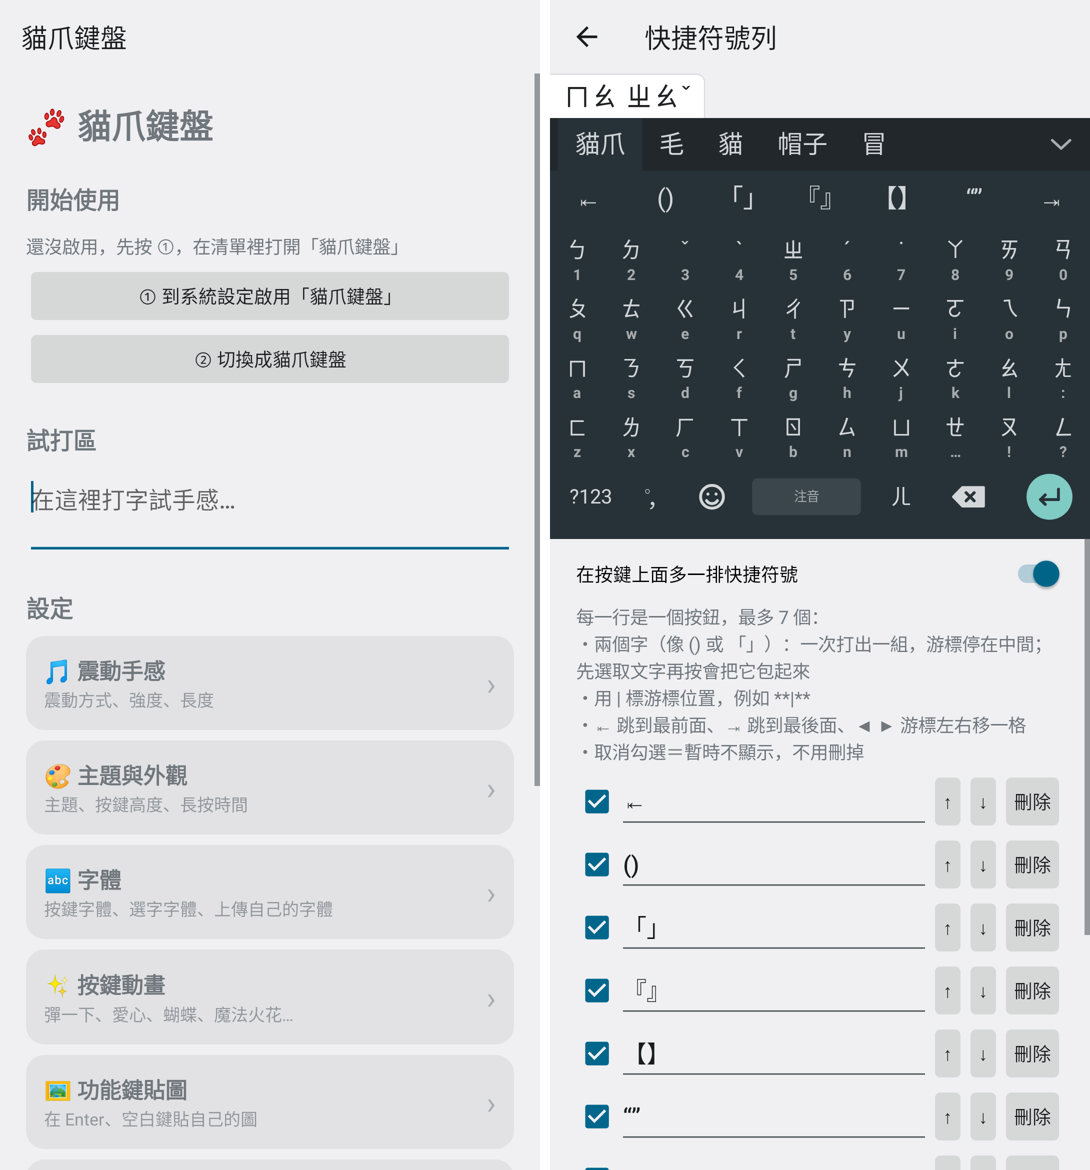
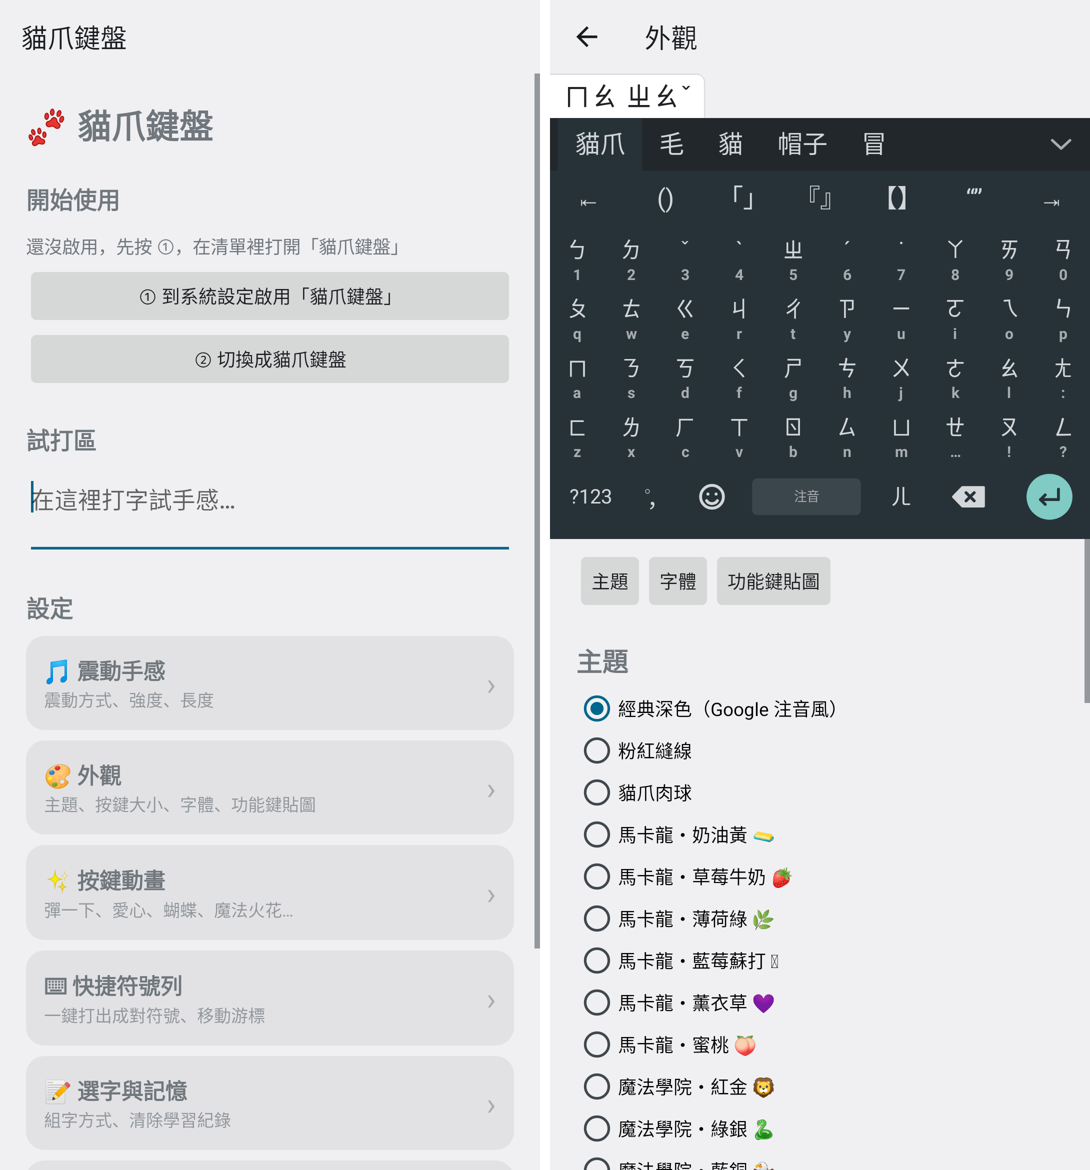
設定頁：主題、字體、功能鍵貼圖合併成「外觀」
- 首頁分類精簡成 7 個
- 「外觀」最上面有跳轉按鈕（主題／字體／功能鍵貼圖）
- 自訂配色改從主題清單下的「調整自訂配色 ›」進入，返回會回到外觀

Claude-Session: https://claude.ai/code/session_01YEi7AGz9LaiD389faVzAY6

diff --git a/app/src/main/java/io/github/yolanda1027/catpaw/SettingsActivity.kt b/app/src/main/java/io/github/yolanda1027/catpaw/SettingsActivity.kt
@@ -195,21 +195,29 @@ class SettingsActivity : Activity() {
 
     // ---------- 分頁 ----------
 
-    /** 設定的分類：代號、標題、說明、要不要在上面放預覽鍵盤 */
-    private class PageInfo(val id: String, val title: String, val desc: String, val preview: Boolean)
+    /**
+     * 設定的分類：代號、標題、說明、要不要在上面放預覽鍵盤、
+     * 按返回要回到哪一頁、要不要列在首頁
+     */
+    private class PageInfo(
+        val id: String, val title: String, val desc: String, val preview: Boolean,
+        val parent: String = "home", val listed: Boolean = true,
+    )
 
     private val pages = listOf(
         PageInfo("haptic", "🎵 震動手感", "震動方式、強度、長度", false),
-        PageInfo("theme", "🎨 主題與外觀", "主題、按鍵高度、長按時間", true),
-        PageInfo("font", "🔤 字體", "按鍵字體、選字字體、上傳自己的字體", true),
+        PageInfo("look", "🎨 外觀", "主題、按鍵大小、字體、功能鍵貼圖", true),
         PageInfo("effect", "✨ 按鍵動畫", "彈一下、愛心、蝴蝶、魔法火花…", true),
-        PageInfo("sticker", "🖼 功能鍵貼圖", "在 Enter、空白鍵貼自己的圖", true),
-        PageInfo("color", "🖌 自訂配色", "自己調鍵盤的 5 個顏色", true),
         PageInfo("quick", "⌨ 快捷符號列", "一鍵打出成對符號、移動游標", true),
         PageInfo("candidate", "📝 選字與記憶", "組字方式、清除學習紀錄", false),
         PageInfo("clip", "📋 剪貼簿", "剪貼簿紀錄開關、清除", false),
         PageInfo("tips", "💡 小提示", "一些好用的小技巧", false),
+        // 從「外觀」的主題清單跳進來，不列在首頁
+        PageInfo("color", "🖌 自訂配色", "自己調鍵盤的 5 個顏色", true, parent = "look", listed = false),
     )
+
+    private fun parentOf(id: String) = pages.firstOrNull { it.id == id }?.parent ?: "home"
+    private var scroll: ScrollView? = null
 
     private var page = "home"
 
@@ -229,12 +237,12 @@ class SettingsActivity : Activity() {
 
     @Deprecated("Activity 的返回鍵處理")
     override fun onBackPressed() {
-        if (page != "home") showPage("home")
+        if (page != "home") showPage(parentOf(page))
         else @Suppress("DEPRECATION") super.onBackPressed()
     }
 
     override fun onOptionsItemSelected(item: android.view.MenuItem): Boolean {
-        if (item.itemId == android.R.id.home) { showPage("home"); return true }
+        if (item.itemId == android.R.id.home) { showPage(parentOf(page)); return true }
         return super.onOptionsItemSelected(item)
     }
 
@@ -260,17 +268,16 @@ class SettingsActivity : Activity() {
             val p = (20 * dp).toInt()
             setPadding(p, ((if (info?.preview == true) 8 else 20) * dp).toInt(), p, p * 3)
         }
-        outer.addView(ScrollView(this).apply { addView(root) },
-            LinearLayout.LayoutParams(LinearLayout.LayoutParams.MATCH_PARENT, 0, 1f))
+        val sv = ScrollView(this).apply { addView(root) }
+        scroll = sv
+        outer.addView(sv, LinearLayout.LayoutParams(LinearLayout.LayoutParams.MATCH_PARENT, 0, 1f))
         setContentView(outer)
         actionBar?.title = info?.title?.substringAfter(' ') ?: "貓爪鍵盤"
         actionBar?.setDisplayHomeAsUpEnabled(info != null)
         when (id) {
             "haptic" -> pageHaptic()
-            "theme" -> pageTheme()
-            "font" -> pageFont()
+            "look" -> pageLook()
             "effect" -> pageEffect()
-            "sticker" -> pageSticker()
             "color" -> pageColor()
             "quick" -> pageQuick()
             "candidate" -> pageCandidate()
@@ -301,7 +308,7 @@ class SettingsActivity : Activity() {
         })
 
         section("設定")
-        for (p in pages) menuItem(p)
+        for (p in pages.filter { it.listed }) menuItem(p)
     }
 
     /** 首頁的分類按鈕：標題＋一行說明，點下去進到那一頁 */
@@ -355,18 +362,56 @@ class SettingsActivity : Activity() {
         button("試震一下") { haptics.perform(it, prefs) }
     }
 
+    /** 外觀：主題、按鍵、字體、功能鍵貼圖，最上面有跳轉按鈕 */
+    private fun pageLook() {
+        val anchors = LinearLayout(this).apply { orientation = LinearLayout.HORIZONTAL }
+        root.addView(anchors)
+        val targets = LinkedHashMap<String, View>()
+        fun anchor(name: String) {
+            val v = TextView(this).apply {
+                text = name
+                textSize = 20f
+                setTypeface(typeface, Typeface.BOLD)
+                setPadding(0, (22 * dp).toInt(), 0, (6 * dp).toInt())
+            }
+            root.addView(v)
+            targets[name] = v
+        }
+        anchor("主題")
+        pageTheme()
+        anchor("字體")
+        pageFont()
+        anchor("功能鍵貼圖")
+        pageSticker()
+        // 跳轉按鈕：點了直接捲到那一段
+        for ((name, v) in targets) {
+            anchors.addView(Button(this).apply {
+                text = name
+                isAllCaps = false
+                minWidth = 0
+                minimumWidth = 0
+                setPadding((12 * dp).toInt(), 0, (12 * dp).toInt(), 0)
+                setOnClickListener { scroll?.smoothScrollTo(0, v.top) }
+            })
+        }
+    }
+
     private fun pageTheme() {
-        subTitle("主題")
         themeGroup = radios(
             listOf(
                 "classic" to "經典深色（Google 注音風）",
                 "stitch" to "粉紅縫線",
                 "catpaw" to "貓爪肉球",
             ) + MacaronTheme.PALETTES.map { it.id to it.title } + MagicTheme.PALETTES.map { it.id to it.title } + listOf(
-                "custom" to "自訂配色（到「自訂配色」頁調顏色）",
+                "custom" to "自訂配色",
             ),
             prefs.theme,
         ) { prefs.theme = it }
+        root.addView(Button(this).apply {
+            text = "🖌 調整自訂配色 ›"
+            isAllCaps = false
+            setOnClickListener { showPage("color") }
+        })
         subTitle("按鍵")
         slider("按鍵高度", 36, 64, prefs.keyHeightDp, " dp（Google 注音約 45）") { prefs.keyHeightDp = it }
         slider("長按時間", 200, 700, prefs.longPressMs, " 毫秒") { prefs.longPressMs = it }

diff --git a/app/src/test/java/io/github/yolanda1027/catpaw/SettingsScreenTest.kt b/app/src/test/java/io/github/yolanda1027/catpaw/SettingsScreenTest.kt
@@ -38,7 +38,7 @@ class SettingsScreenTest {
         val a = Robolectric.buildActivity(SettingsActivity::class.java).setup().get()
         shot(a, "settings-home")
         Prefs(a).quickBar = true
-        for (p in listOf("quick", "theme", "haptic", "font", "color")) {
+        for (p in listOf("quick", "look", "haptic", "color")) {
             showPage(a, p)
             shot(a, "settings-$p")
         }
